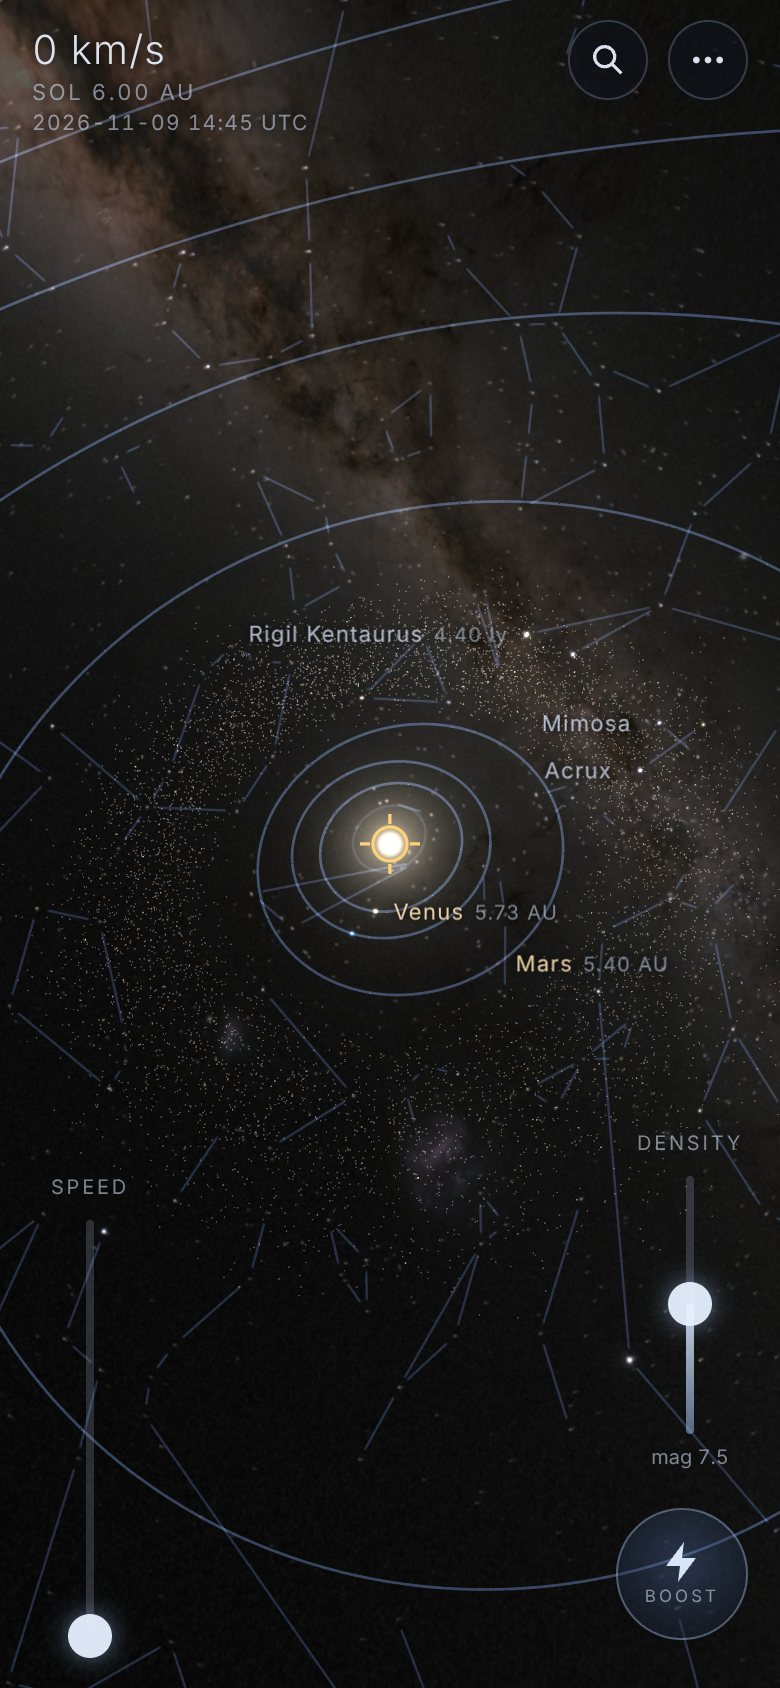
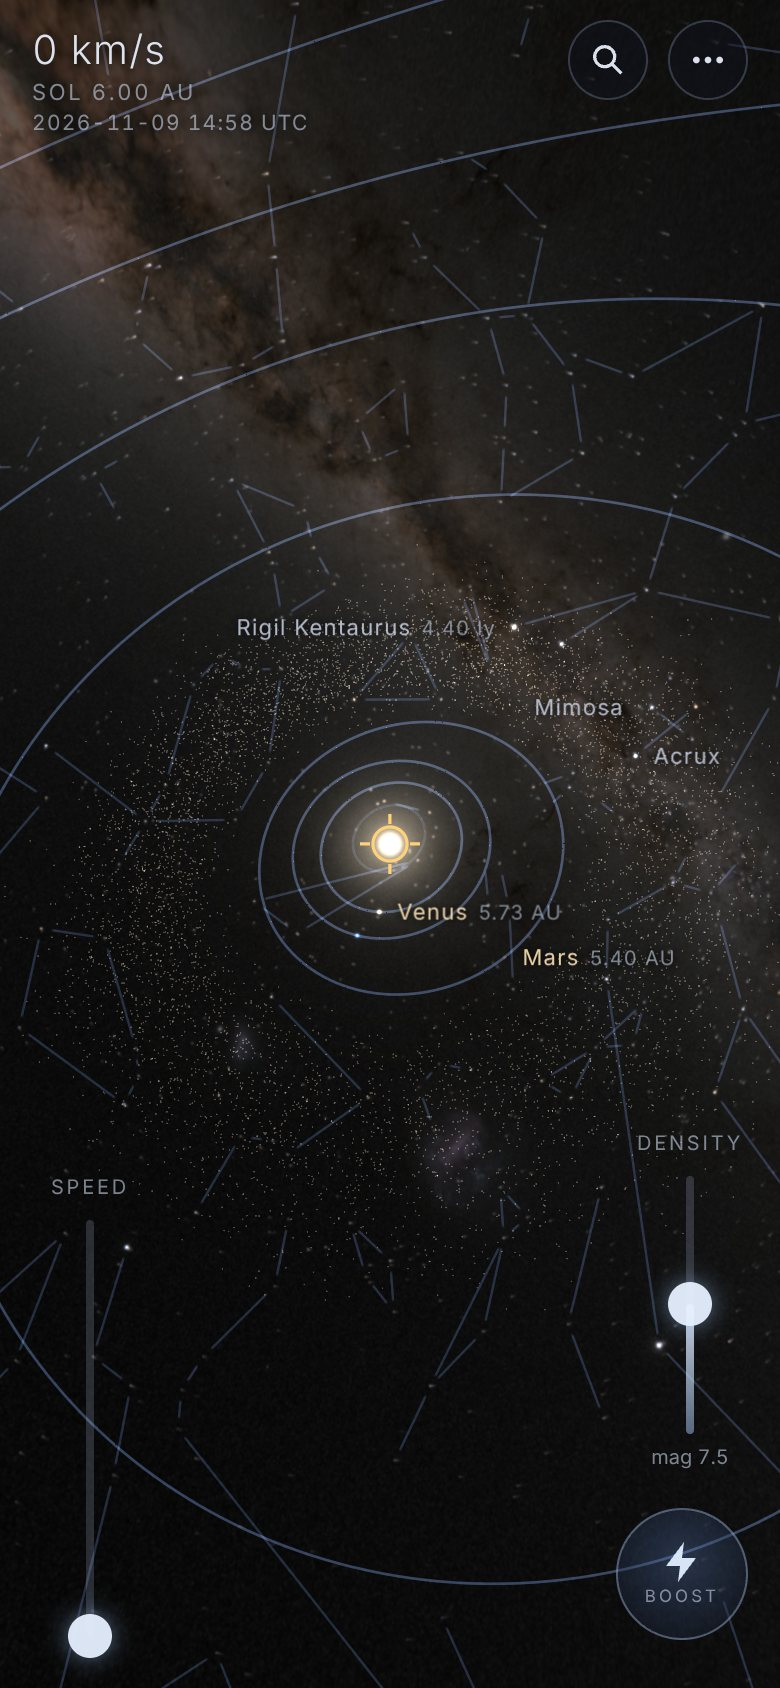
Keep the Sun's caption until the planets spread out
Far out, the planets sit within a pixel of the Sun, yet they were
labelled on top of it ("Jupiter 0.15 ly"), while the SOL caption was
already hidden at 0.1 ly, where it is the only thing marking the Sun.
Planet names now wait until a planet stands clear of the Sun's glare,
and the caption steps aside only within ~50 AU, among the planets.

Claude-Session: https://claude.ai/code/session_01AYUAPgLbBbpQgTM3EmVRQ2

diff --git a/src/hud.js b/src/hud.js
@@ -266,9 +266,9 @@ export class Hud {
     const sunR = sun && !sun.behind ? sun.r : 0;
     this.setDisc(this.sol, sunR, sunR);
     const solM = this.placeMarker(this.sol, this.solArrow, this.solTag, [0, 0, 0], proj, bodies);
-    // Among the planets the Sun needs no caption (the readout has its distance): just the
-    // ring, so the planets crowded round it keep their names.
-    const quiet = sS > 0.5 && !solM.edge && sunR <= 15;
+    // Among the planets (within ~50 AU) the Sun needs no caption, the readout has its
+    // distance: just the ring, so the planets crowded round it keep their names.
+    const quiet = sS > 0.5 && solDistPc * AU_PER_PC < 50 && !solM.edge && sunR <= 15;
     this.sol.classList.toggle('quiet', quiet);
     const taken = [quiet ? { x0: solM.x - 12, x1: solM.x + 12, y0: solM.y - 12, y1: solM.y + 12 } : this.markerBox(solM, sunR, `SOL ${this.solDist.textContent}`)];
     this.sol.classList.toggle('autopilot', ship.autopilot && !!ship.target?.home);
@@ -384,6 +384,7 @@ export class Hud {
 
   updateBodyLabels(f, bodies, textTick, skipId, taken) {
     const { proj } = f;
+    const sun = bodies.find((o) => o.body.id === 'sun');
     if (skipId) this.bodyLabels.drop(skipId); // the target marker names it now
     const r = this.edgeRect(proj.w, proj.h);
     const blockers = this.blockerRects(proj.w, proj.h);
@@ -394,6 +395,7 @@ export class Hud {
       if (b.id === 'sun' || b.id === skipId || s.behind) continue; // the Sun has the SOL tag
       if (b.type === 'moon' && !s.visible) continue;
       if (s.x < r.x0 || s.x > r.x1 || s.y < r.y0 || s.y > r.y1 || s.r > big) continue;
+      if (b.type !== 'moon' && sun && !sun.behind && Math.hypot(s.x - sun.x, s.y - sun.y) < sun.r + 24) continue; // lost in the Sun's glare
       if (b.type === 'moon') {
         // only once it stands clear of its planet (and its rings)
         const p = bodies.find((o) => o.body.id === b.parent);
